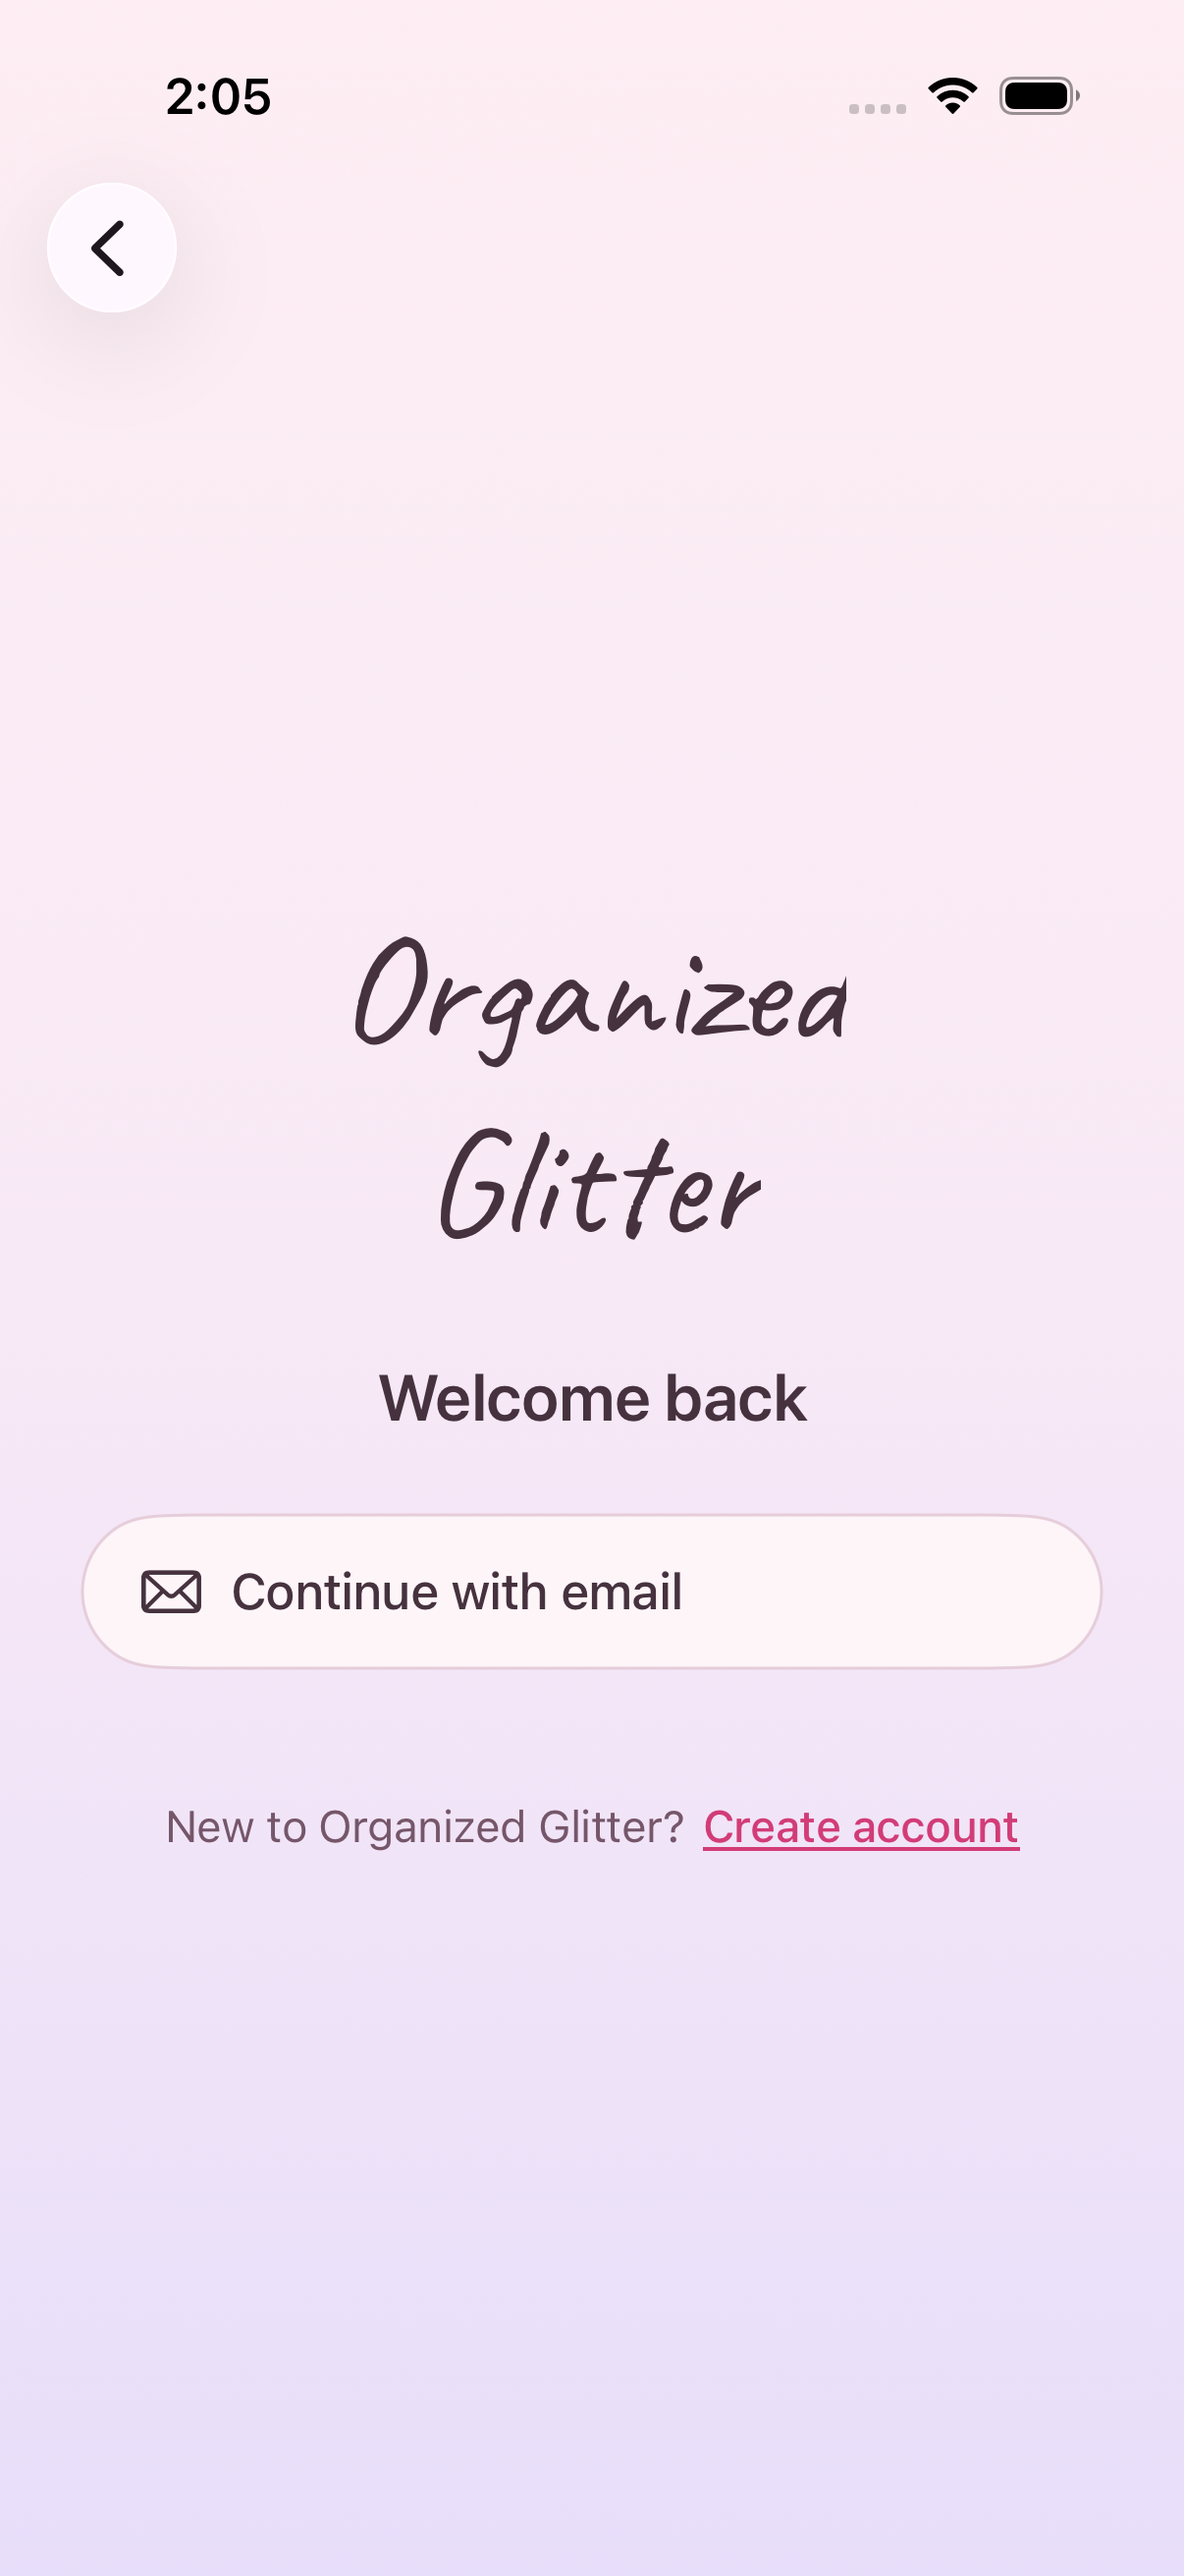
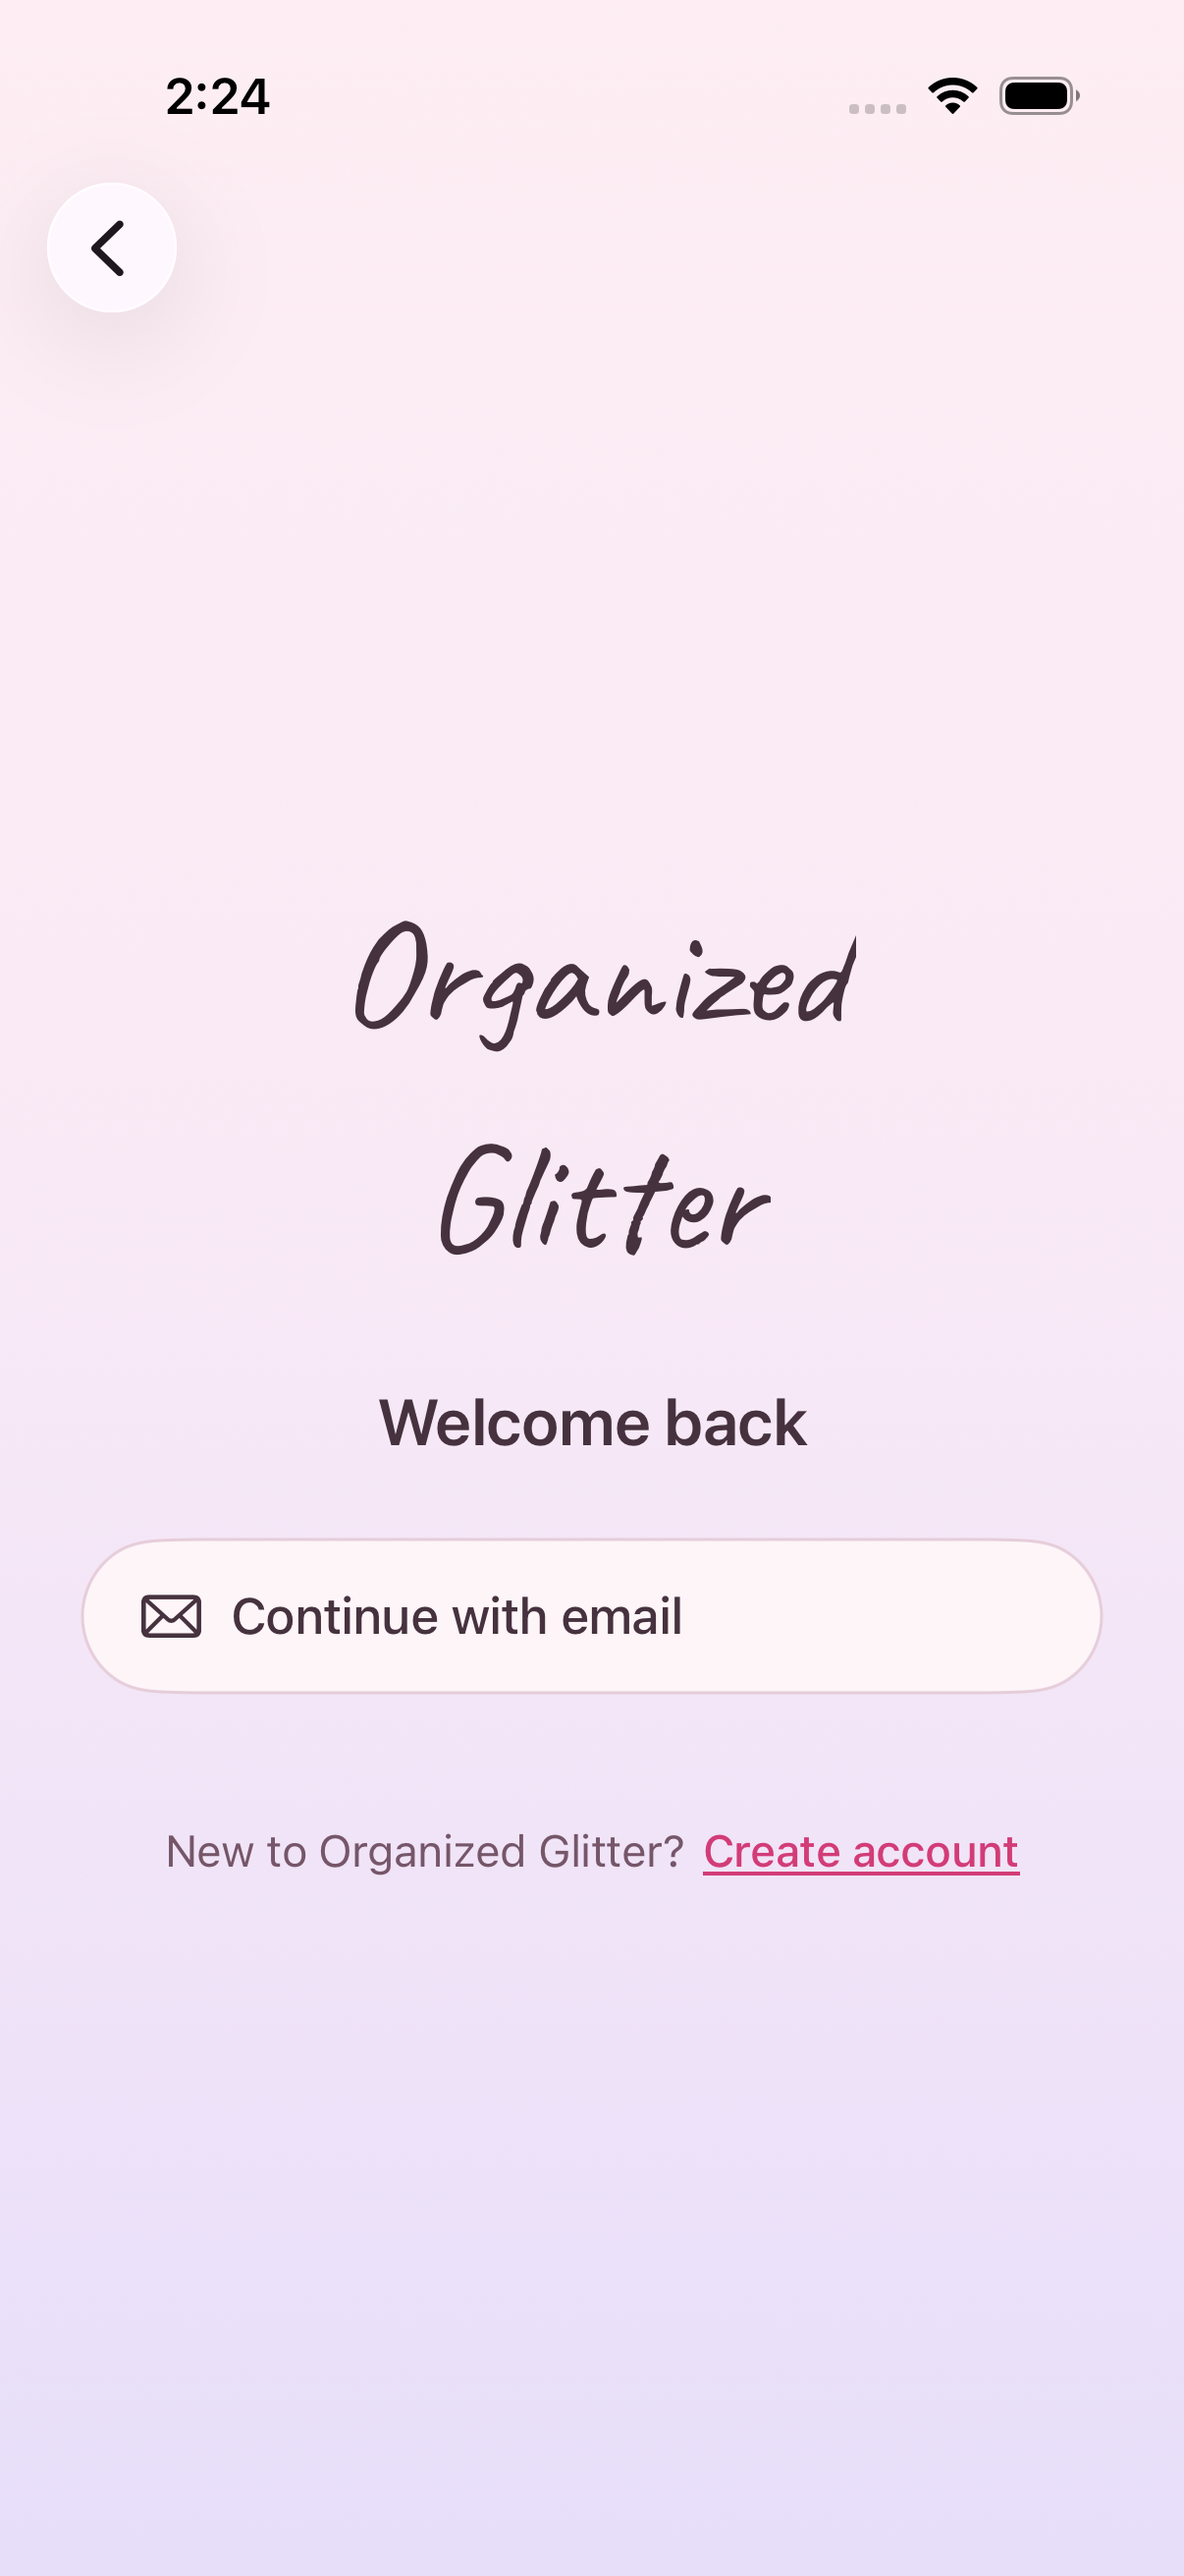
fix(auth): preserve wordmark glyph bounds

diff --git a/ios/OrganizedGlitter/Authentication/AuthChrome.swift b/ios/OrganizedGlitter/Authentication/AuthChrome.swift
@@ -1,6 +1,12 @@
+import CoreText
 import SwiftUI
+import UIKit
 
 /// Stacked Caveat wordmark used on splash, welcome, and account-entry screens.
+///
+/// SwiftUI `Text` and UILabel both clip Caveat’s ascenders against a tight
+/// typographic line box. Draw each line with Core Text using glyph-path bounds
+/// so the script stays whole, and shrink to fit the available width.
 struct BrandWordmark: View {
   @Environment(\.theme) private var theme
 
@@ -8,18 +14,149 @@ struct BrandWordmark: View {
   var relativeTo: Font.TextStyle = .largeTitle
   var accessibilityIdentifier: String? = nil
 
+  @ScaledMetric private var scaledSize: CGFloat
+
+  init(
+    size: CGFloat = 56,
+    relativeTo: Font.TextStyle = .largeTitle,
+    accessibilityIdentifier: String? = nil
+  ) {
+    self.size = size
+    self.relativeTo = relativeTo
+    self.accessibilityIdentifier = accessibilityIdentifier
+    _scaledSize = ScaledMetric(wrappedValue: size, relativeTo: relativeTo)
+  }
+
   var body: some View {
-    VStack(spacing: 0) {
-      Text("Organized")
-      Text("Glitter")
+    VStack(spacing: scaledSize * 0.08) {
+      CaveatWordmarkLine(text: "Organized", pointSize: scaledSize, color: theme.foreground)
+      CaveatWordmarkLine(text: "Glitter", pointSize: scaledSize, color: theme.foreground)
     }
-    .font(.caveat(size: size, relativeTo: relativeTo))
-    .foregroundStyle(theme.foreground)
-    .multilineTextAlignment(.center)
+    .frame(maxWidth: .infinity)
+    .fixedSize(horizontal: false, vertical: true)
     .accessibilityElement(children: .ignore)
     .accessibilityLabel("Organized Glitter")
     .accessibilityAddTraits(.isHeader)
     .accessibilityIdentifier(accessibilityIdentifier ?? "brandWordmark")
+  }
+}
+
+private struct CaveatWordmarkLine: UIViewRepresentable {
+  var text: String
+  var pointSize: CGFloat
+  var color: Color
+
+  func makeUIView(context: Context) -> CaveatWordmarkLabel {
+    CaveatWordmarkLabel()
+  }
+
+  func updateUIView(_ label: CaveatWordmarkLabel, context: Context) {
+    label.wordmarkText = text
+    label.pointSize = pointSize
+    label.ink = UIColor(color)
+    label.setNeedsDisplay()
+    label.invalidateIntrinsicContentSize()
+  }
+
+  func sizeThatFits(
+    _ proposal: ProposedViewSize,
+    uiView: CaveatWordmarkLabel,
+    context: Context
+  ) -> CGSize? {
+    uiView.preferredSize(forWidth: proposal.width)
+  }
+}
+
+private final class CaveatWordmarkLabel: UIView {
+  var wordmarkText: String = ""
+  var pointSize: CGFloat = 56
+  var ink: UIColor = .label
+
+  override init(frame: CGRect) {
+    super.init(frame: frame)
+    isOpaque = false
+    backgroundColor = .clear
+    contentMode = .redraw
+    clipsToBounds = false
+    setContentHuggingPriority(.required, for: .vertical)
+    setContentCompressionResistancePriority(.required, for: .vertical)
+  }
+
+  @available(*, unavailable)
+  required init?(coder: NSCoder) {
+    fatalError("init(coder:) has not been implemented")
+  }
+
+  private var baseFont: UIFont {
+    UIFont(name: "Caveat-Regular", size: pointSize)
+      ?? UIFont(name: "Caveat", size: pointSize)
+      ?? .systemFont(ofSize: pointSize)
+  }
+
+  private func glyphBounds(for font: UIFont) -> CGRect {
+    let attributed = NSAttributedString(
+      string: wordmarkText,
+      attributes: [.font: font]
+    )
+    let line = CTLineCreateWithAttributedString(attributed)
+    return CTLineGetBoundsWithOptions(
+      line,
+      [.useGlyphPathBounds, .useOpticalBounds]
+    )
+  }
+
+  func preferredSize(forWidth width: CGFloat?) -> CGSize {
+    let font = baseFont
+    let bounds = glyphBounds(for: font)
+    let pad = font.pointSize * 0.08
+    var size = CGSize(
+      width: ceil(bounds.width + pad * 2),
+      height: ceil(bounds.height + pad * 2)
+    )
+    if let width, width > 0, width.isFinite, size.width > width {
+      let scale = width / size.width
+      size = CGSize(width: width, height: ceil(size.height * scale))
+    }
+    return size
+  }
+
+  override var intrinsicContentSize: CGSize {
+    preferredSize(forWidth: nil)
+  }
+
+  override func draw(_ rect: CGRect) {
+    guard let context = UIGraphicsGetCurrentContext(), !wordmarkText.isEmpty else { return }
+    let font = baseFont
+    let attributed = NSAttributedString(
+      string: wordmarkText,
+      attributes: [
+        .font: font,
+        .foregroundColor: ink,
+      ]
+    )
+    let line = CTLineCreateWithAttributedString(attributed)
+    let glyphBounds = CTLineGetBoundsWithOptions(
+      line,
+      [.useGlyphPathBounds, .useOpticalBounds]
+    )
+    let naturalWidth = max(glyphBounds.width, 1)
+    let naturalHeight = max(glyphBounds.height, 1)
+    let scale = min(
+      bounds.width / naturalWidth,
+      bounds.height / naturalHeight,
+      1
+    )
+
+    context.saveGState()
+    context.textMatrix = .identity
+    context.translateBy(x: bounds.midX, y: bounds.midY)
+    context.scaleBy(x: scale, y: -scale)
+    context.textPosition = CGPoint(
+      x: -glyphBounds.midX,
+      y: -glyphBounds.midY
+    )
+    CTLineDraw(line, context)
+    context.restoreGState()
   }
 }
 
@@ -128,6 +265,7 @@ struct AuthEntryContainer<Content: View>: View {
             alignment: fillsHeight ? .center : .top
           )
       }
+      .scrollClipDisabled()
     }
     .scrollDismissesKeyboard(.interactively)
     .background(theme.themedBackground.ignoresSafeArea())
